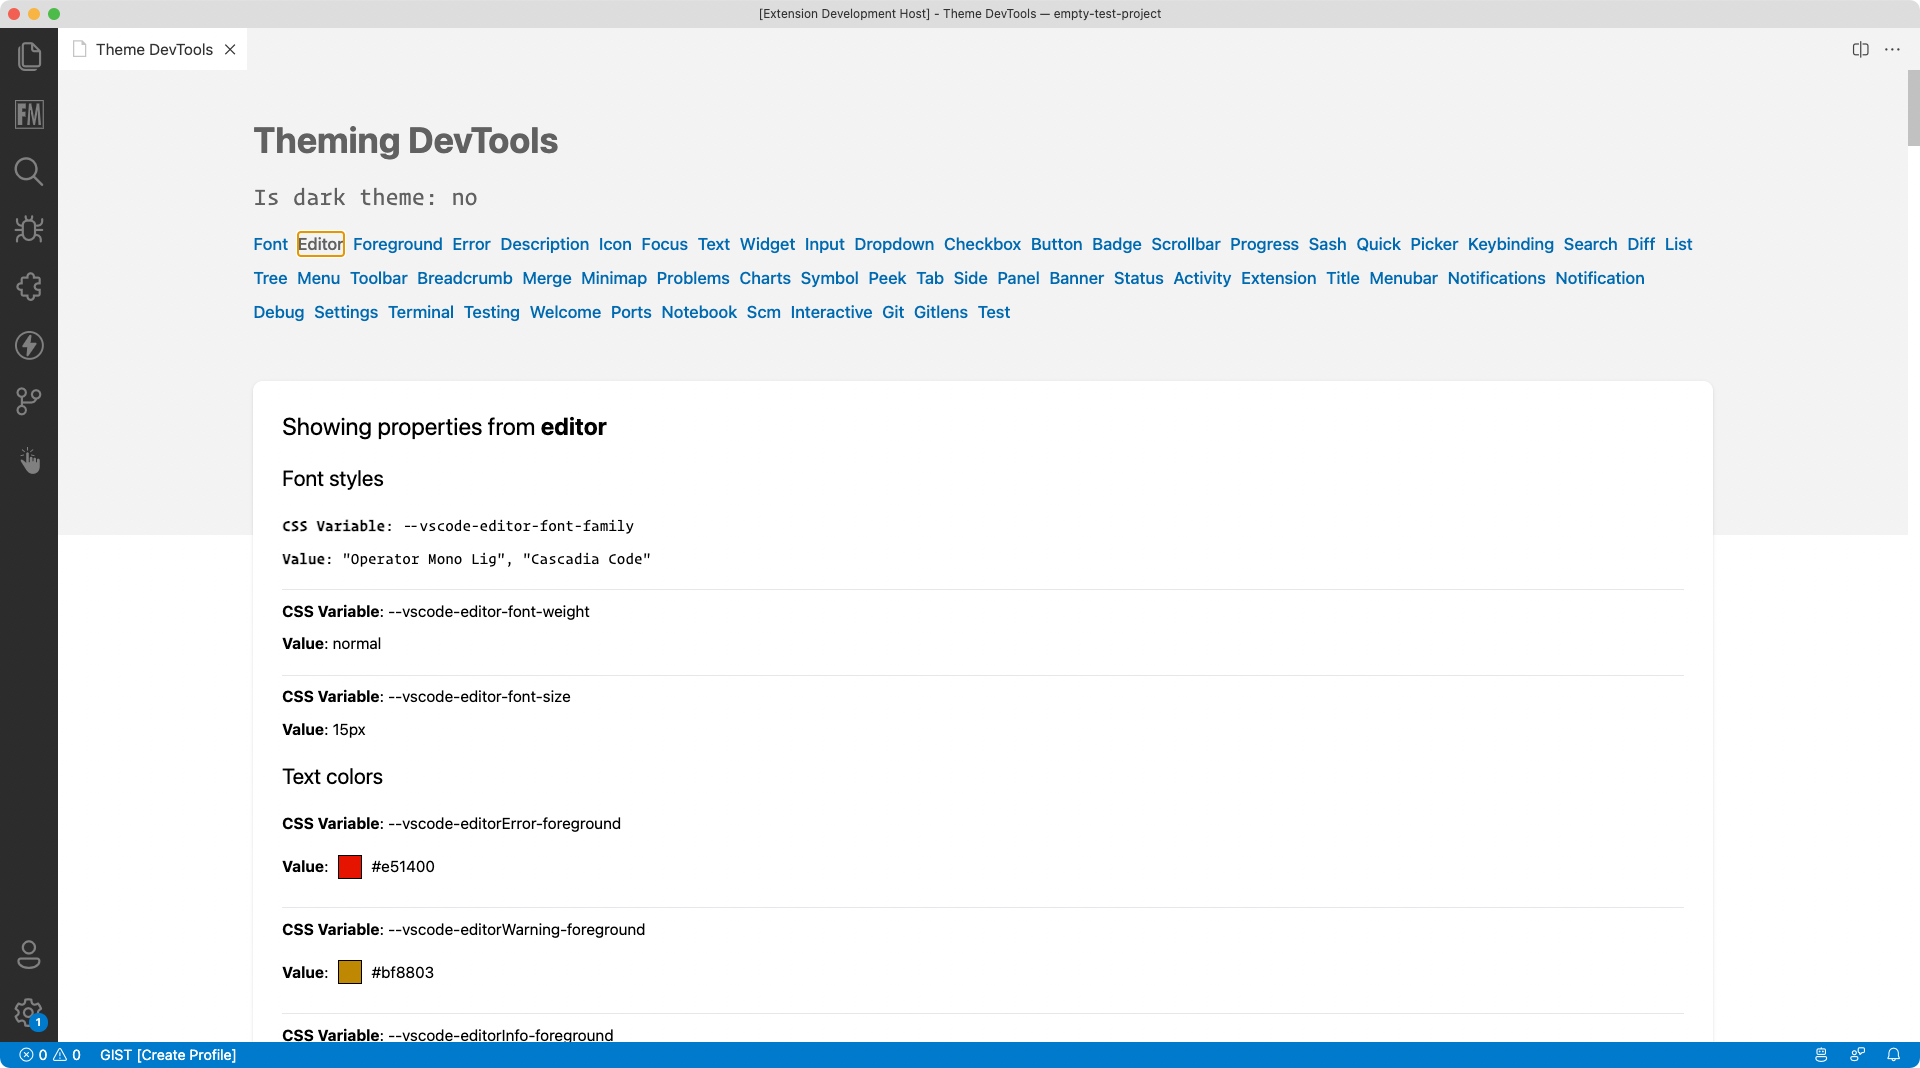
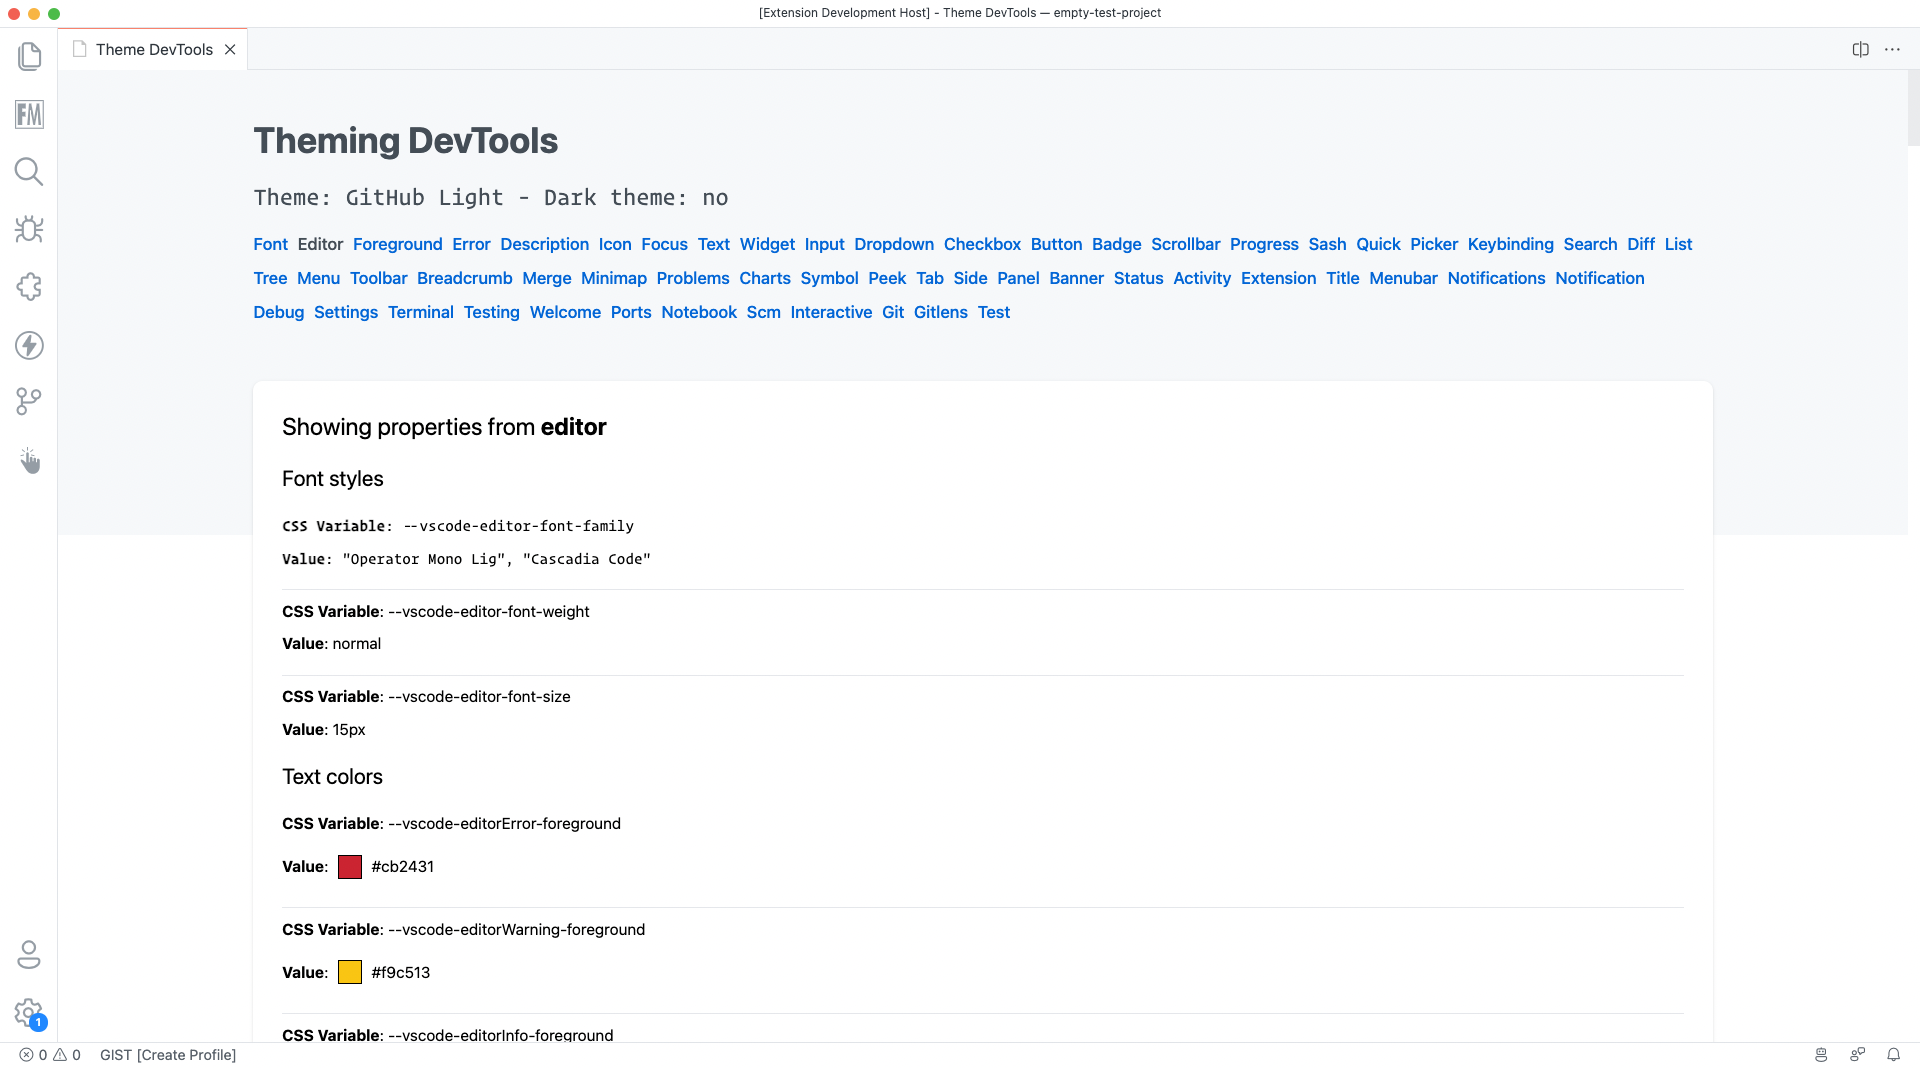
Added theme name

diff --git a/src/webview-ui/components/header.tsx b/src/webview-ui/components/header.tsx
@@ -5,12 +5,13 @@ import { Tabs } from './tabs';
 
 export interface IHeaderProps {
   isDark: boolean;
+  themeName: string | null | undefined;
   groups: string[];
   selectedGroup: string | null;
   setSelectedGroup: (group: string) => void;
 }
 
-export const Header: React.FunctionComponent<IHeaderProps> = ({ isDark, groups, selectedGroup, setSelectedGroup }: React.PropsWithChildren<IHeaderProps>) => {
+export const Header: React.FunctionComponent<IHeaderProps> = ({ isDark, themeName, groups, selectedGroup, setSelectedGroup }: React.PropsWithChildren<IHeaderProps>) => {
   const styles = useStyles();
 
   const fgColor = useMemo(() => styles.find(({ property }) => property === "foreground")?.value, [styles]);
@@ -23,7 +24,10 @@ export const Header: React.FunctionComponent<IHeaderProps> = ({ isDark, groups, 
       <header className="py-10">
         <div className="max-w-7xl mx-auto px-4 sm:px-6 lg:px-8">
           <h1 className="text-3xl font-bold mb-4">Theming DevTools</h1>
-          <h2 className="text-xl" style={{ fontFamily: fontFamily }}>Is dark theme: {isDark ? "yes" : "no" }</h2>
+          <h2 className="text-xl" style={{ fontFamily: fontFamily }}>
+            {themeName ? `Theme: ${themeName} - ` : ''}
+            Dark theme: {isDark ? "yes" : "no" }
+          </h2>
 
           <Tabs 
             groups={groups} 

diff --git a/src/webview-ui/hooks/useVSCodeStyles.tsx b/src/webview-ui/hooks/useVSCodeStyles.tsx
@@ -1,6 +1,7 @@
 import { useState, useEffect } from 'react';
 
 export default function useVSCodeStyles() {
+  const [themeName, setThemeName] = useState<string | null>();
   const [isDark, setIsDark] = useState<boolean | null>();
   const [styles, setStyles] = useState<VSCodeStyleProperty[]>([]);
 
@@ -53,6 +54,10 @@ export default function useVSCodeStyles() {
     const darkMode = elm.classList.contains('vscode-dark');
     setIsDark(darkMode);
 
+    // Update the theme name
+    const crntThemeName = elm.getAttribute(`data-vscode-theme-name`);
+    setThemeName(crntThemeName);
+
     // Get all styles
     const htmlStyle = document.querySelector('html')?.getAttribute('style');
     if (!htmlStyle) {
@@ -81,6 +86,7 @@ export default function useVSCodeStyles() {
 
   return {
     isDark,
+    themeName,
     styles
   };
 }

diff --git a/src/webview-ui/App.tsx b/src/webview-ui/App.tsx
@@ -6,7 +6,7 @@ import useVSCodeStyles from "./hooks/useVSCodeStyles";
 import { StyleProvider } from "./providers/styleProvider";
 
 function App() {
-  const { isDark, styles } = useVSCodeStyles();
+  const { isDark, themeName, styles } = useVSCodeStyles();
   const [ selectedGroup, setSelectedGroup ] = useState<string | null>(null);
 
   const groups = useMemo(() => [...new Set((styles || []).map(p => p.parent))], [styles]);
@@ -16,6 +16,7 @@ function App() {
       <main className={`h-full w-full flex flex-col text-black`}>
         <Header 
           isDark={!!isDark}
+          themeName={themeName}
           groups={groups}
           selectedGroup={selectedGroup}
           setSelectedGroup={setSelectedGroup} />
